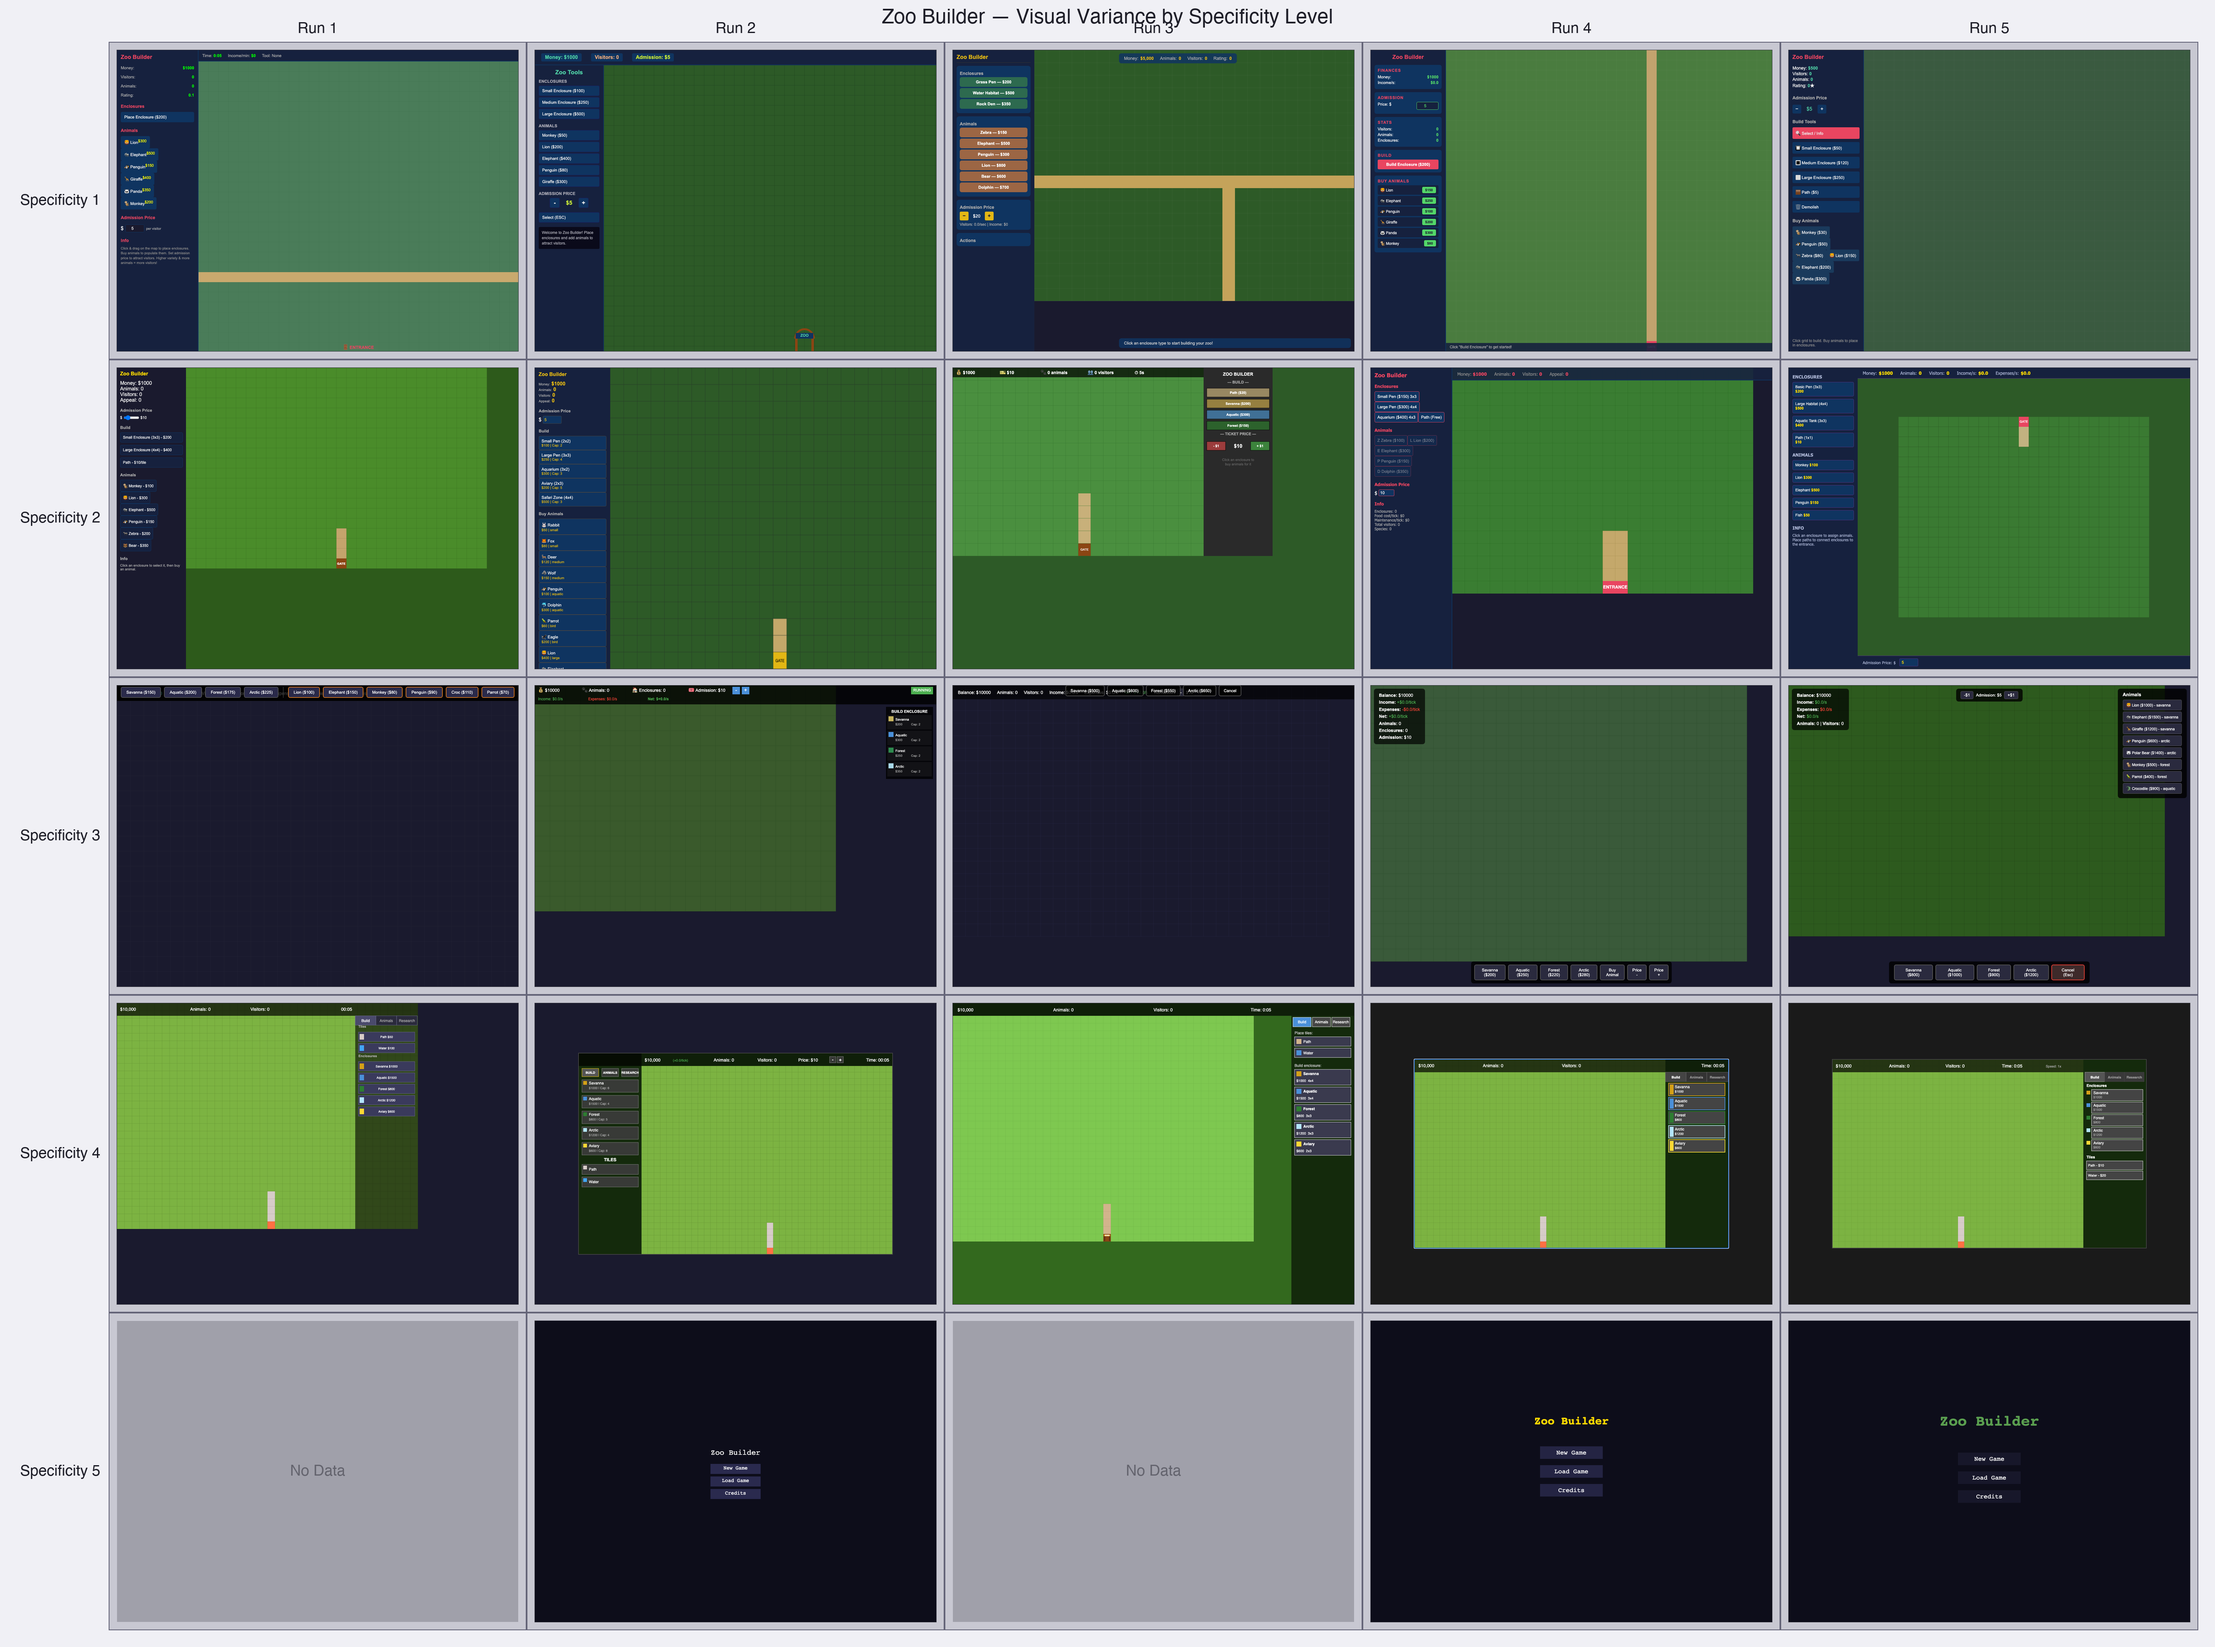
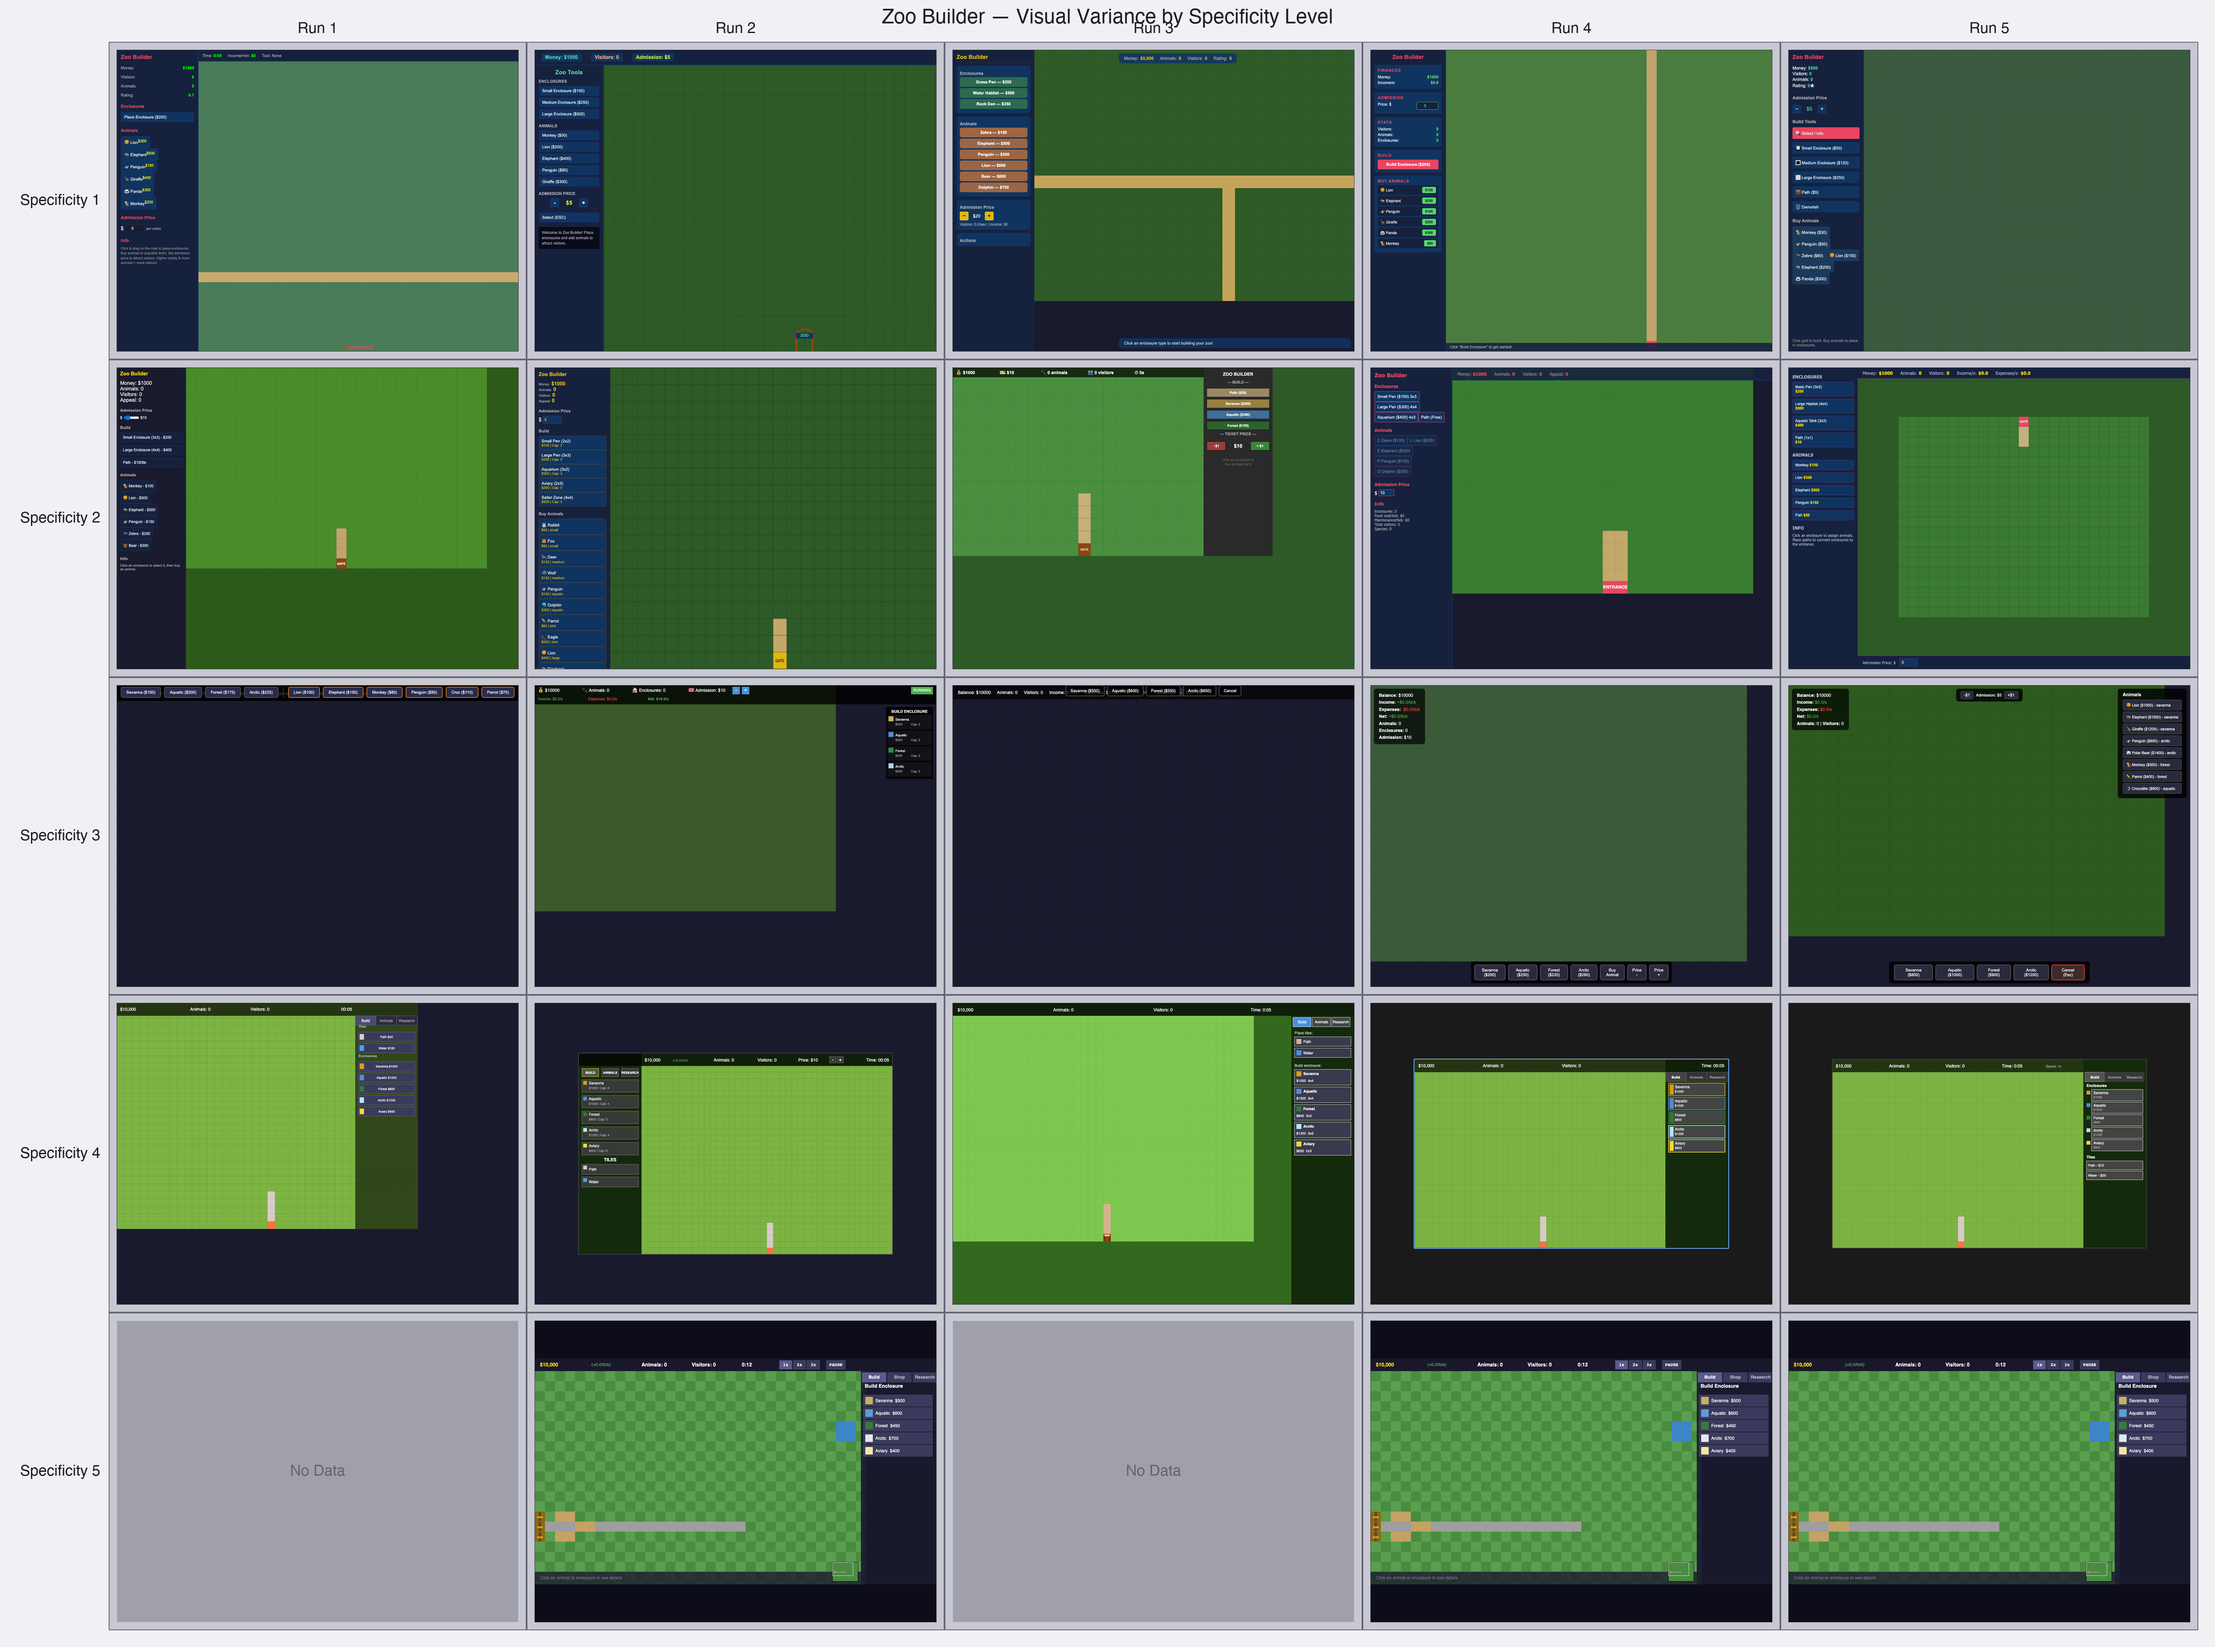
Fix spec 5 screenshots: auto-start game via route interception
Spec 5 games render a canvas menu with no click handler (bug in
generated code). Fixed by intercepting JS responses via Playwright
route API to expose game state on window, then auto-transitioning
from menu to playing state with map initialization.

Also added run_output.sh helper to serve individual runs for viewing,
improved grid layout with larger fonts, padding, and borders.

Changed region(s): [[0.5915, 0.8117, 0.9962, 0.9678], [0.2179, 0.8117, 0.4358, 0.9678]]

diff --git a/experiments/specification_sensitivity/screenshot_all.py b/experiments/specification_sensitivity/screenshot_all.py
@@ -3,6 +3,7 @@
 
 import asyncio
 import os
+import re
 import sys
 import http.server
 import threading
@@ -74,7 +75,7 @@ def get_free_port() -> int:
 
 
 async def take_screenshot(page, url: str, output_path: Path):
-    """Navigate to URL and take a screenshot."""
+    """Navigate to URL, click through any start menu, and take a screenshot."""
     try:
         await page.goto(url, wait_until="networkidle", timeout=15000)
     except Exception:
@@ -83,9 +84,45 @@ async def take_screenshot(page, url: str, output_path: Path):
         except Exception:
             pass
 
-    # Wait for rendering
+    # Wait for initial render
+    await page.wait_for_timeout(WAIT_MS)
+
+    # Try to click through start menus — attempt multiple strategies
+    await _click_through_menu(page)
+
+    # Wait for game to render after click
     await page.wait_for_timeout(WAIT_MS)
     await page.screenshot(path=str(output_path))
+
+
+async def _click_through_menu(page):
+    """Try to click 'New Game', 'Start', 'Play' or similar buttons."""
+    # Strategy 1: Click DOM buttons with common start-game text
+    for text in ["New Game", "Start", "Play", "Start Game", "Begin", "new game"]:
+        try:
+            btn = page.get_by_text(text, exact=False).first
+            if await btn.is_visible(timeout=500):
+                await btn.click()
+                await page.wait_for_timeout(1000)
+                return
+        except Exception:
+            pass
+
+    # Strategy 2: Force game state from 'menu' to 'playing' via injected window.__gameState
+    try:
+        await page.evaluate("""() => {
+            if (window.__gameState) {
+                const s = window.__gameState;
+                if (s.phase === 'menu' || s.phase === 'loading') {
+                    s.phase = 'playing';
+                    if (s.lastTimestamp !== undefined) s.lastTimestamp = 0;
+                    if (s.accumulator !== undefined) s.accumulator = 0;
+                }
+            }
+        }""")
+        await page.wait_for_timeout(2000)
+    except Exception:
+        pass
 
 
 async def screenshot_all_runs():
@@ -103,7 +140,26 @@ async def screenshot_all_runs():
     async with async_playwright() as p:
         browser = await p.chromium.launch()
         context = await browser.new_context(viewport={"width": WIDTH, "height": HEIGHT})
+
         page = await context.new_page()
+
+        # Intercept JS responses to inject state exposure + auto-start.
+        # This patches createGameState() calls to expose state on window,
+        # and adds a setTimeout to initialize the map and transition to 'playing'.
+        # No source files are modified — interception is in-memory only.
+        async def _intercept_js(route):
+            response = await route.fetch()
+            body = await response.text()
+            if "createGameState" in body:
+                body = re.sub(
+                    r"(const state = createGameState\(\);)",
+                    r"\1\nwindow.__gameState = state;",
+                    body
+                )
+                body += '\nsetTimeout(async () => { try { const {initMap} = await import("./map.js"); if (window.__gameState && !window.__gameState.map) window.__gameState.map = initMap(); if (window.__gameState) { window.__gameState.phase = "playing"; window.__gameState.lastTimestamp = 0; } } catch(e) {} }, 500);'
+            await route.fulfill(response=response, body=body)
+
+        await page.route("**/*.js", _intercept_js)
 
         for spec_level, runs in sorted(runs_by_spec.items()):
             for i, run_dir in enumerate(runs):
